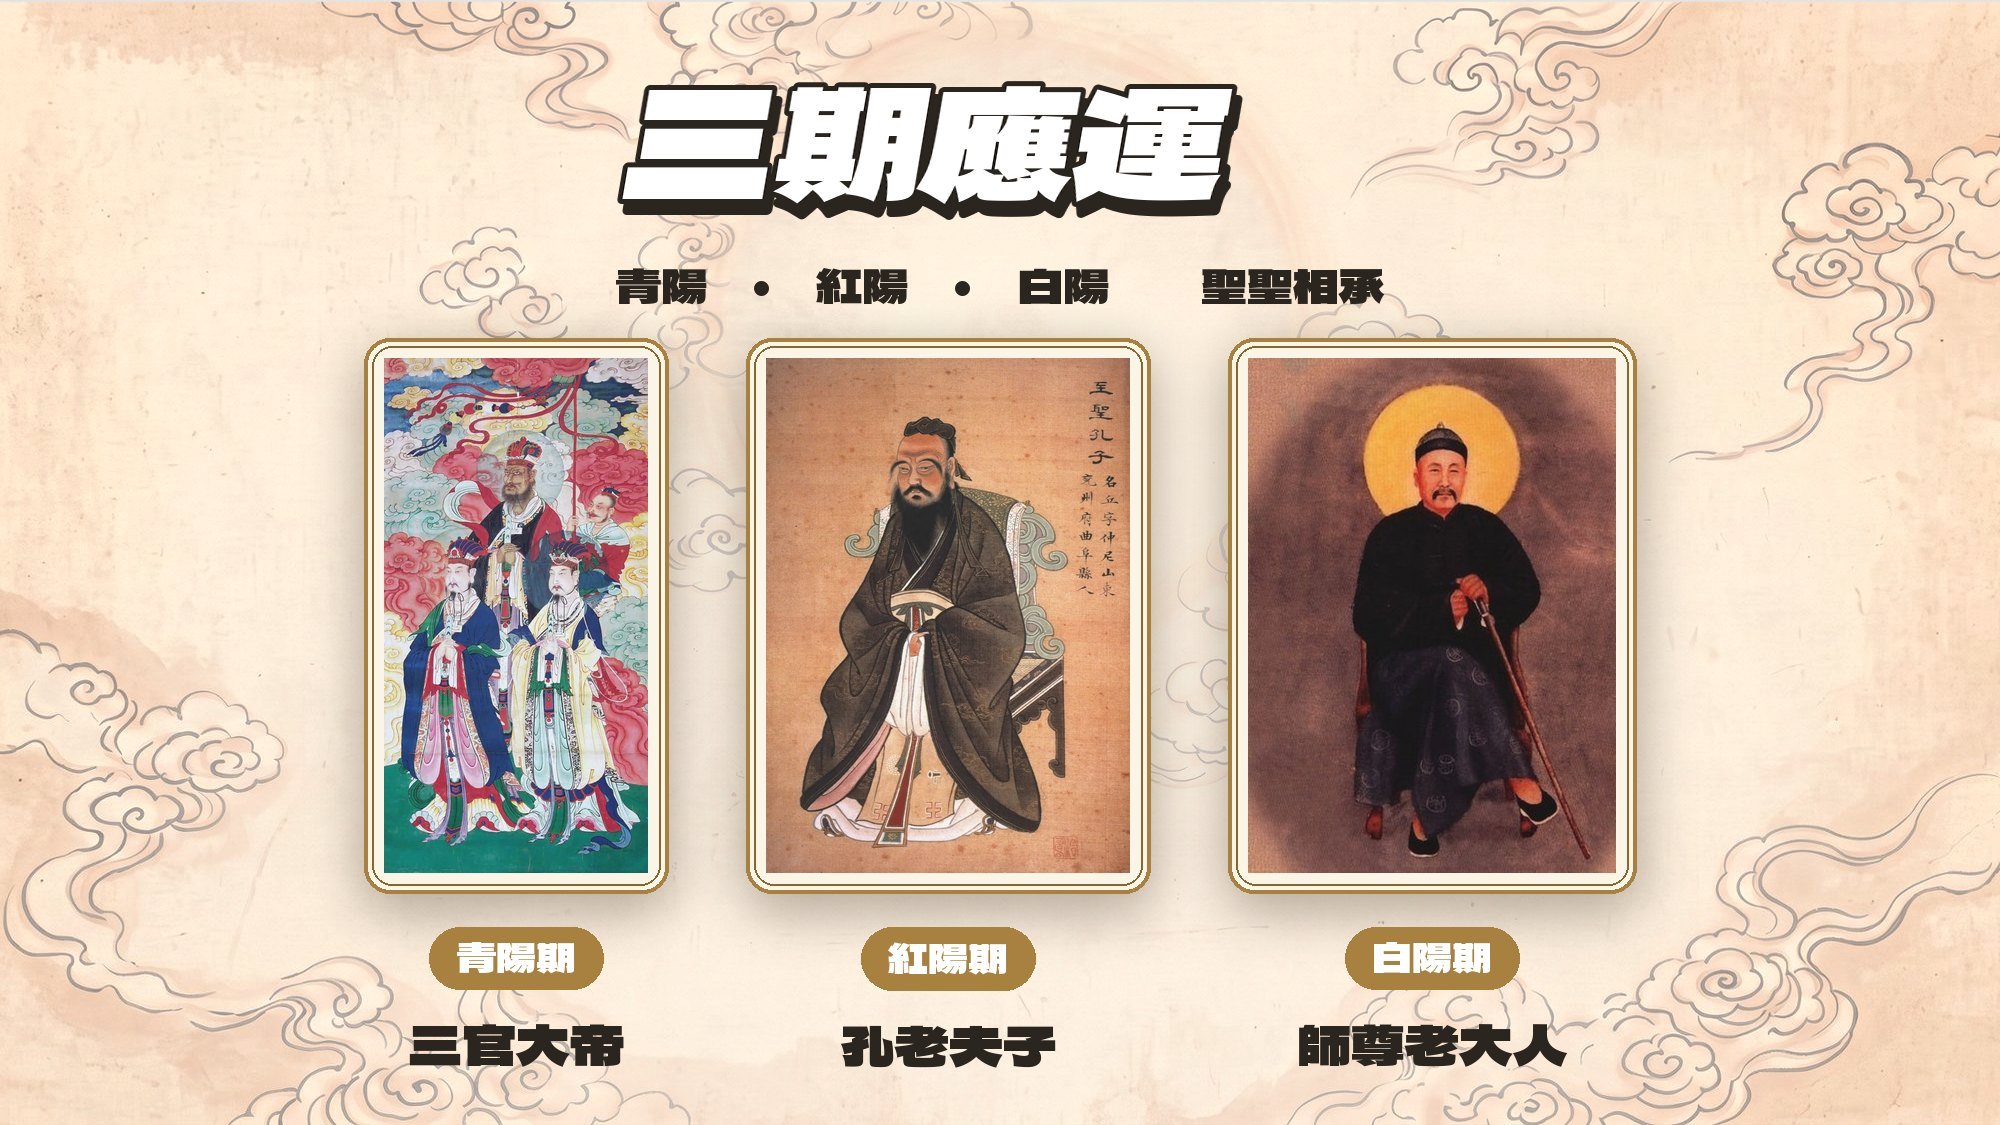
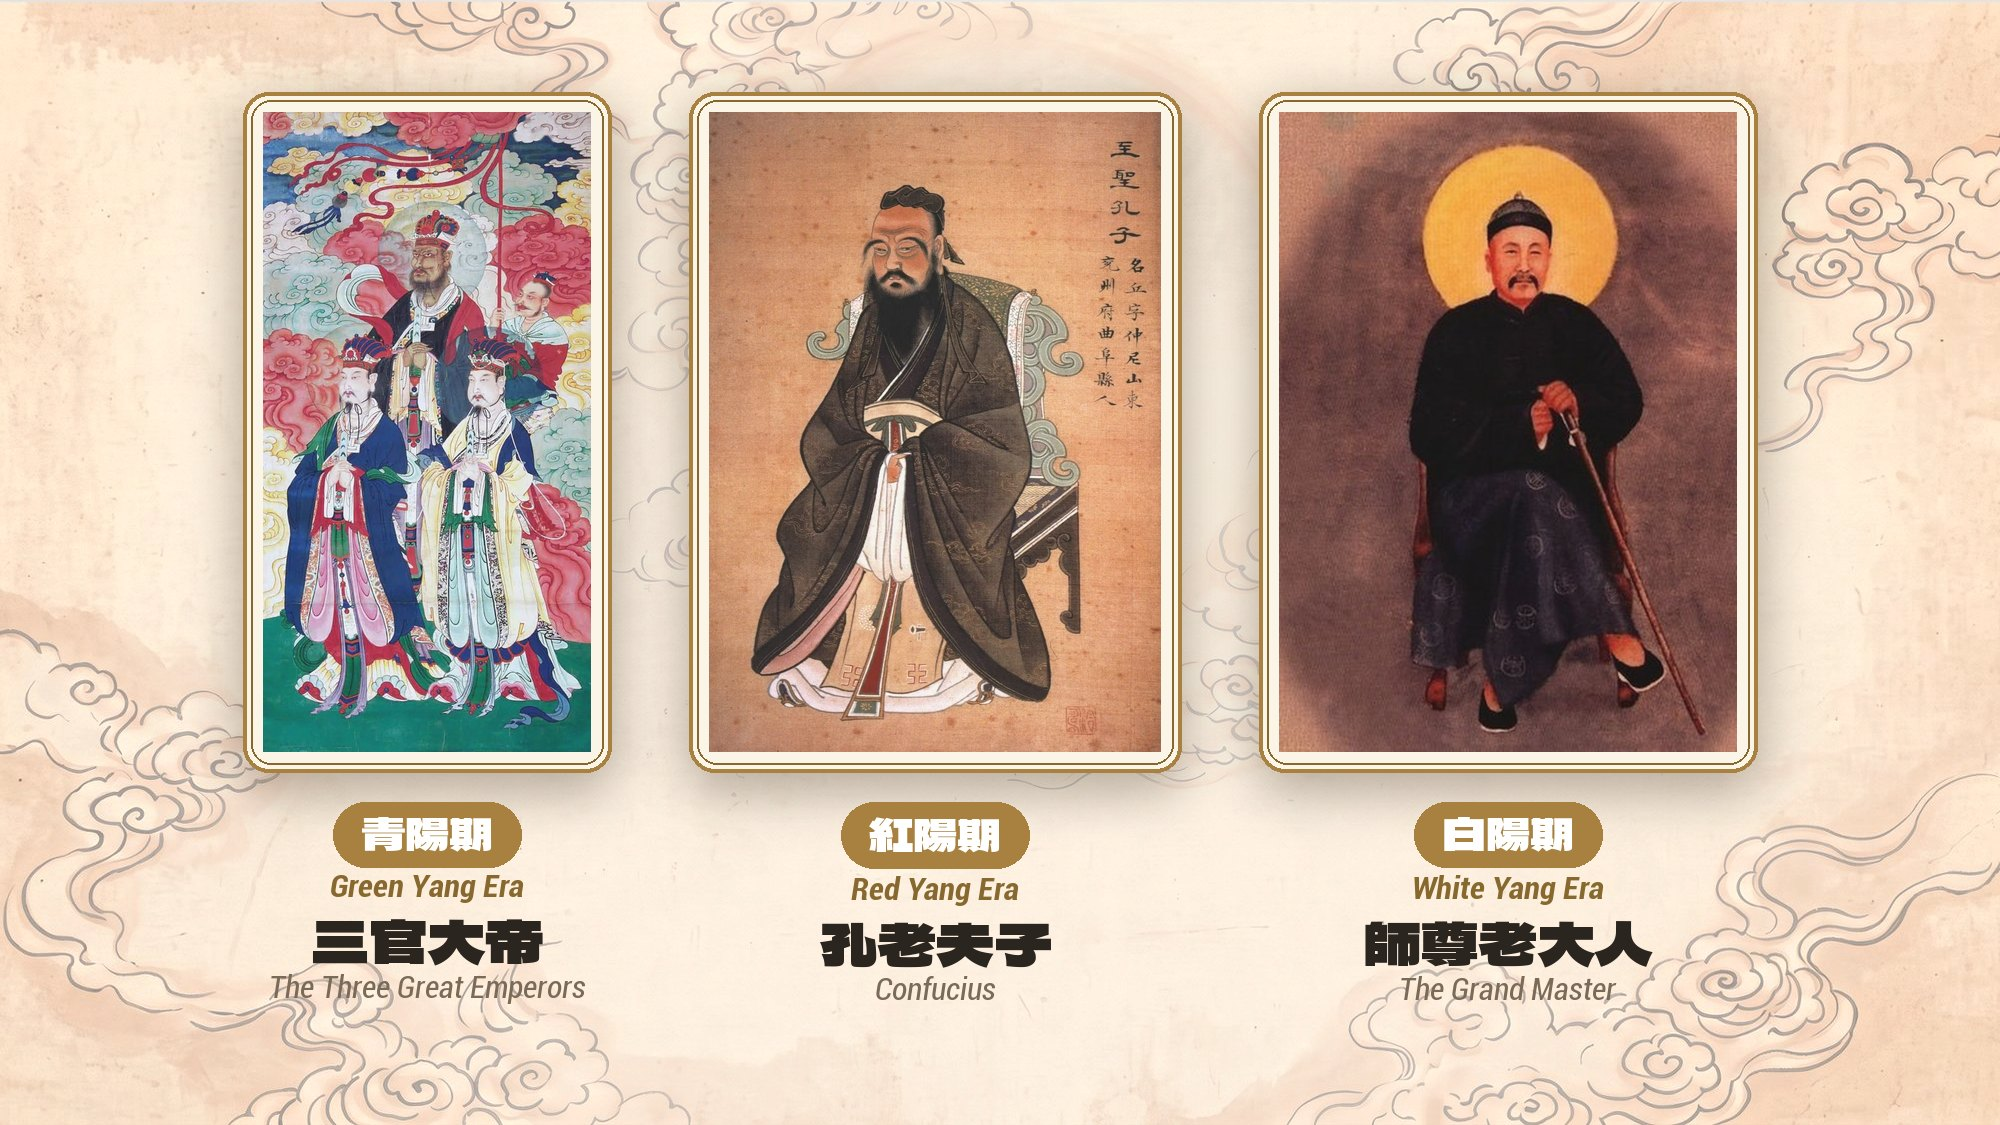
主持台加投影片選單直接跳頁；聖賢圖去標題+加英文(Yang Era) (v28)

diff --git a/app.js b/app.js
@@ -439,7 +439,27 @@
 
     makeQR($("#h-qr"), 128);
     $("#h-joinurl").textContent = joinUrl();
+    renderSlideMenu();
     renderModList();
+  }
+
+  // 投影片選單（主持台：列出每一頁，點擊直接跳轉）
+  function slideMenuLabel(s, i) {
+    if (s.type === "question") return "Q" + qNumber(i) + "　" + (s.zh || "問題");
+    const names = { cover: "封面 · 首頁", name: "掃碼 · 填名字", qr: "掃碼加入", video: (s.label || "影片"), image: (s.label || "圖片"), agents: "AI 代理人牆" };
+    return names[s.type] || s.type;
+  }
+  function renderSlideMenu() {
+    const box = $("#h-slidemenu"); if (!box || !config) return;
+    const slides = slidesOf(), cur = activeIdx();
+    const kind = { cover: "封面", name: "填名字", qr: "QR", video: "影片", image: "圖片", agents: "代理人", question: "問題" };
+    box.innerHTML = slides.map((s, i) =>
+      `<button class="smrow${i === cur ? " active" : ""}" data-go="${i}">
+         <span class="smnum">${i + 1}</span>
+         <span class="smkind">${esc(kind[s.type] || s.type)}</span>
+         <span class="smtitle">${esc(slideMenuLabel(s, i))}</span>
+         ${i === cur ? '<span class="smnow">● 播放中</span>' : ""}
+       </button>`).join("");
   }
 
   function renderModList() {
@@ -478,6 +498,7 @@
     $("#h-prev").addEventListener("click", () => { if (activeIdx() > 0) stepTo(activeIdx() - 1); });
     $("#h-next").addEventListener("click", () => { if (activeIdx() < slidesOf().length - 1) stepTo(activeIdx() + 1); });
     $("#h-home").addEventListener("click", () => stepTo(0));
+    $("#h-slidemenu").addEventListener("click", (e) => { const btn = e.target.closest("[data-go]"); if (btn) stepTo(+btn.getAttribute("data-go")); });
     $("#h-accept").addEventListener("change", (e) => patchConfig({ accepting: e.target.checked }));
     $("#h-reveal").addEventListener("change", (e) => patchConfig({ reveal: e.target.checked }));
     $("#h-showqr").addEventListener("change", (e) => patchConfig({ showQR: e.target.checked }));

diff --git a/styles.css b/styles.css
@@ -259,6 +259,18 @@ textarea#ans:focus { border-color: var(--ink); box-shadow: 0 0 0 3px rgba(43,37,
 
 .step-row { display:flex; gap:10px; margin-top:12px; }
 .step-row .btn { flex:1; }
+
+/* 投影片選單（主持台直接跳頁） */
+.slide-menu { display:flex; flex-direction:column; gap:6px; max-height:320px; overflow-y:auto; margin:8px 0 4px; padding:6px; background:var(--paper); border-radius:var(--r-s); }
+.smrow { display:flex; align-items:center; gap:10px; width:100%; text-align:left; background:var(--card); border:1.5px solid var(--line); border-radius:10px; padding:9px 12px; cursor:pointer; font-family:var(--font-body); color:var(--ink); transition:background .12s, border-color .12s, transform .06s; }
+.smrow:hover { border-color:var(--gold); }
+.smrow:active { transform:scale(.99); }
+.smrow.active { background:var(--ink); border-color:var(--ink); color:var(--cream); }
+.smnum { flex:0 0 auto; width:26px; height:26px; border-radius:7px; background:var(--gold); color:var(--cream); font-family:var(--font-en); font-weight:700; font-size:14px; display:grid; place-items:center; }
+.smkind { flex:0 0 auto; font-family:var(--font-en); font-size:11px; letter-spacing:.06em; text-transform:uppercase; color:var(--ink-soft); background:var(--paper); border-radius:999px; padding:2px 9px; }
+.smrow.active .smkind { color:#E7D8BC; background:rgba(255,255,255,.14); }
+.smtitle { flex:1 1 auto; min-width:0; font-weight:700; font-size:14px; white-space:nowrap; overflow:hidden; text-overflow:ellipsis; }
+.smnow { flex:0 0 auto; font-family:var(--font-en); font-size:11px; font-style:italic; color:#E7C98C; white-space:nowrap; }
 .toggle-grid { display:flex; flex-direction:column; gap:12px; margin:18px 0; padding:14px 16px; background:var(--paper); border-radius:var(--r-s); }
 .btn-row { display:flex; gap:8px; flex-wrap:wrap; }
 

diff --git a/index.html b/index.html
@@ -10,7 +10,7 @@
 <link rel="preconnect" href="https://fonts.gstatic.com" crossorigin />
 <link href="https://fonts.googleapis.com/css2?family=Noto+Sans+TC:wght@400;700;900&family=Roboto+Condensed:ital,wght@0,400;0,700;1,400;1,700&display=swap" rel="stylesheet" />
 <link href="https://cdn.jsdelivr.net/npm/@hanzi.pro/webfonts-genyo-gothic-tc/swap.css" rel="stylesheet" />
-<link rel="stylesheet" href="styles.css?v=27" />
+<link rel="stylesheet" href="styles.css?v=28" />
 </head>
 <body>
 
@@ -65,6 +65,9 @@
           <button class="btn jade" id="h-next">下一頁 ▶</button>
         </div>
 
+        <div class="card-label" style="margin-top:18px">投影片選單 · JUMP TO PAGE（點擊直接跳頁）</div>
+        <div class="slide-menu" id="h-slidemenu"></div>
+
         <div id="h-qctrls">
           <div class="toggle-grid">
             <label class="toggle"><input type="checkbox" id="h-accept" checked><span class="sw"></span>開放作答</label>
@@ -116,7 +119,7 @@
 <script src="https://www.gstatic.com/firebasejs/10.12.0/firebase-app-compat.js"></script>
 <script src="https://www.gstatic.com/firebasejs/10.12.0/firebase-database-compat.js"></script>
 <script src="https://cdnjs.cloudflare.com/ajax/libs/qrcodejs/1.0.0/qrcode.min.js"></script>
-<script src="firebase-config.js?v=27"></script>
-<script src="app.js?v=27"></script>
+<script src="firebase-config.js?v=28"></script>
+<script src="app.js?v=28"></script>
 </body>
 </html>
